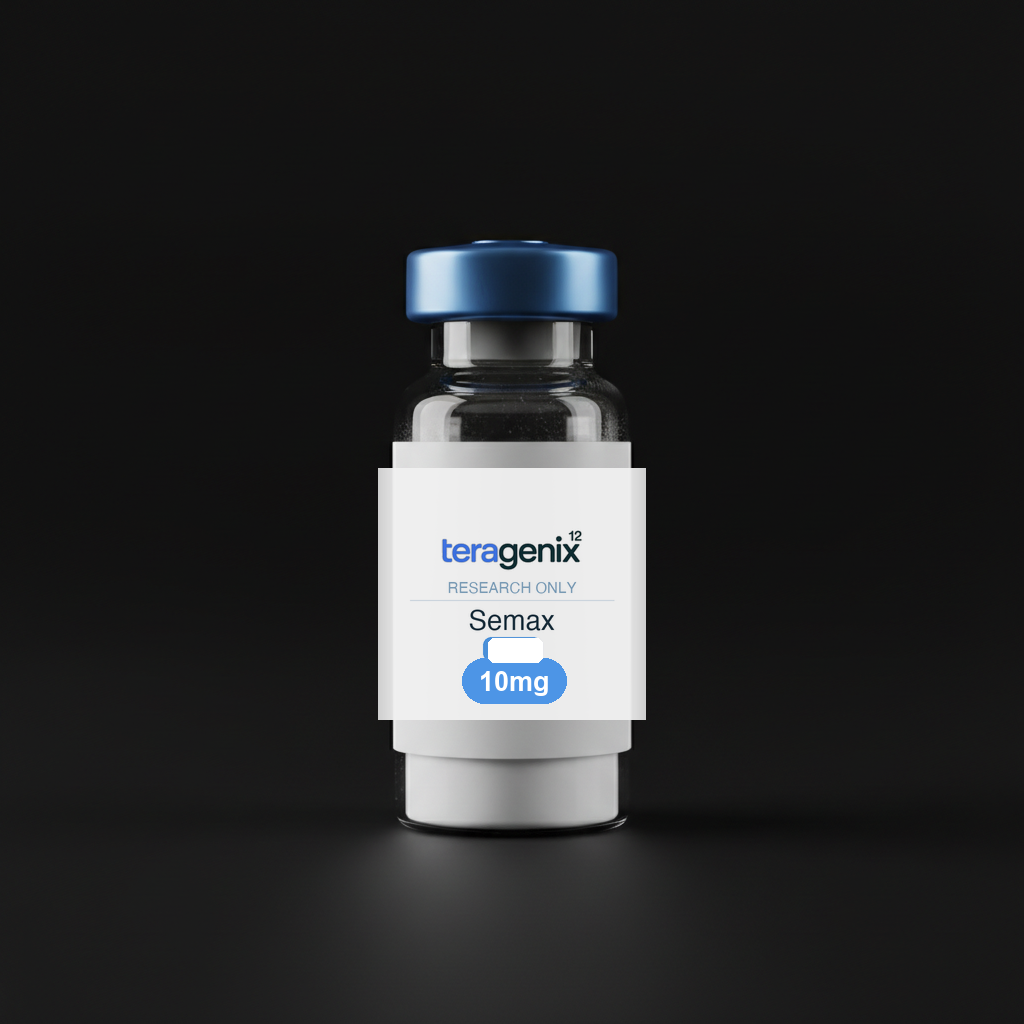
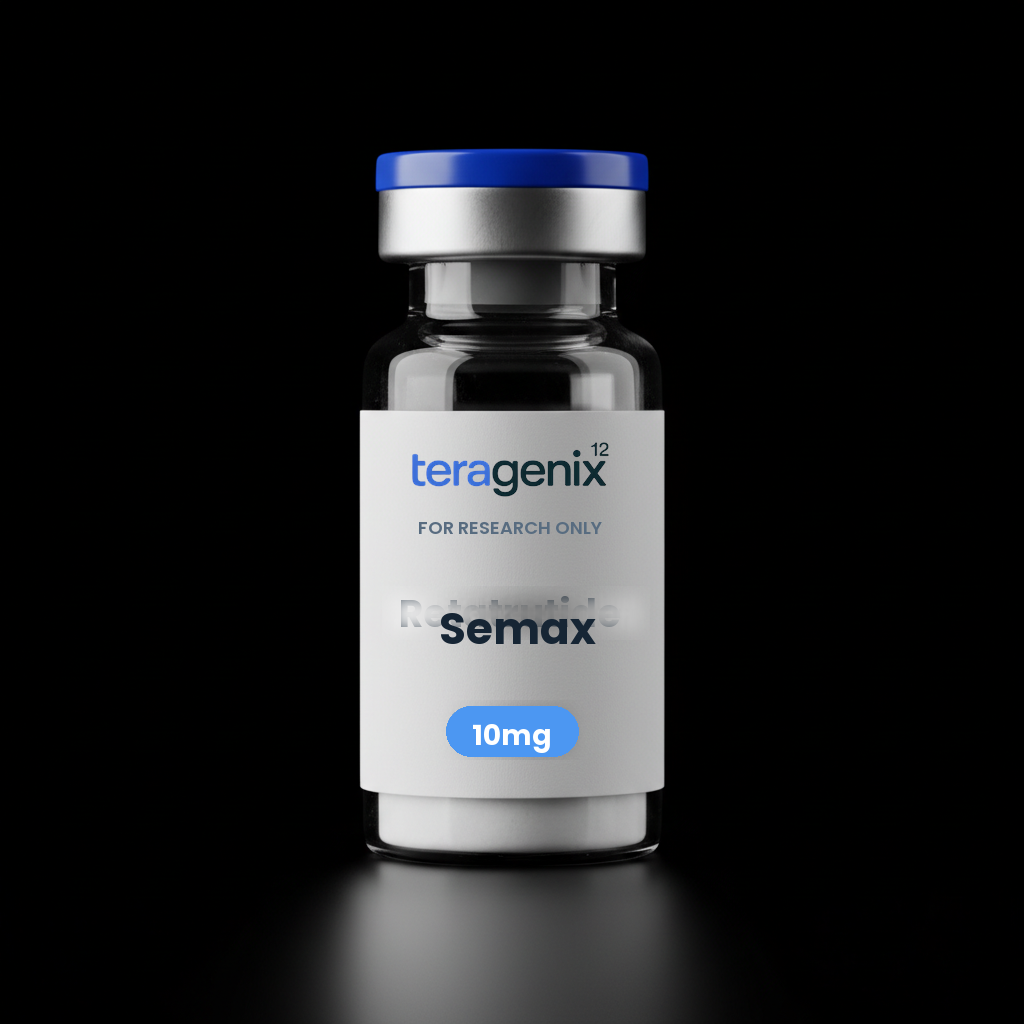
feat: add ordered batch vial renders from master reference

diff --git a/src/data/products.ts b/src/data/products.ts
@@ -201,7 +201,81 @@ export const products: Product[] = [
       "10× Sterile alcohol swabs",
       "Reconstitution guide",
     ],
-    relatedProductSlugs: ["glutathione", "retatrutide", "glow-70"],
+    relatedProductSlugs: ["glutathione", "nad-plus", "cjc-ipamorelin"],
+  },
+  {
+    slug: "cjc-ipamorelin",
+    name: "CJC / Ipamorelin Research Kit",
+    shortName: "CJC / Ipamorelin",
+    category: "Melanocortin",
+    heroCategory: "Melanocortin",
+    price: 129.99,
+    originalPrice: 159.99,
+    description:
+      "10mg CJC / Ipamorelin blend for recovery and longevity research, with prep essentials included.",
+    longDescription:
+      "This CJC / Ipamorelin research kit keeps the blend, prep essentials, and storage notes in one place for easier review. Each kit includes a 10mg lyophilized vial plus the supporting prep supplies needed for a clean research workflow.",
+    badge: "Trending",
+    badgeColor: "bg-violet-600",
+    image: "/images/vials/approved/cjc-ipamorelin.png",
+    specifications: {
+      purity: "99%+",
+      quantity: "10mg per vial",
+      form: "Lyophilized powder",
+      storage: "Store sealed and frozen. Refrigerate after reconstitution (2-8°C)",
+    },
+    documentation: {
+      sku: "TGX-CJCI-10",
+      batchCode: "CJC-ORDER-01",
+      coaStatus: "COA publishing with first production intake",
+      hplcStatus: "HPLC summary publishing with first production intake",
+      msStatus: "MS summary publishing with first production intake",
+      releaseWindow: "Current ordered batch",
+    },
+    kitIncludes: [
+      "1× CJC / Ipamorelin blend (10mg lyophilized)",
+      "1× Bacteriostatic water (30mL)",
+      "10× Insulin syringes (1mL)",
+      "10× Sterile alcohol swabs",
+      "Reconstitution guide",
+    ],
+    relatedProductSlugs: ["tesamorelin", "semax", "retatrutide"],
+  },
+  {
+    slug: "nad-plus",
+    name: "NAD+ Research Kit",
+    shortName: "NAD+",
+    category: "Antioxidant",
+    heroCategory: "Antioxidant",
+    price: 119.99,
+    originalPrice: 149.99,
+    description:
+      "1000mg NAD+ kit for energy and resilience research, with prep essentials included.",
+    longDescription:
+      "This NAD+ research kit is positioned for energy and resilience focused workflows, with the compound, prep essentials, and storage notes kept together for faster review. Each kit includes a 1000mg lyophilized vial plus the supporting supplies needed for a cleaner prep routine.",
+    image: "/images/vials/approved/nad-plus.png",
+    specifications: {
+      purity: "99%+",
+      quantity: "1000mg per vial",
+      form: "Lyophilized powder",
+      storage: "Store sealed and frozen. Refrigerate after reconstitution (2-8°C)",
+    },
+    documentation: {
+      sku: "TGX-NAD-1000",
+      batchCode: "NAD-ORDER-01",
+      coaStatus: "COA publishing with first production intake",
+      hplcStatus: "HPLC summary publishing with first production intake",
+      msStatus: "MS summary publishing with first production intake",
+      releaseWindow: "Current ordered batch",
+    },
+    kitIncludes: [
+      "1× NAD+ (1000mg lyophilized)",
+      "1× Bacteriostatic water (30mL)",
+      "10× Insulin syringes (1mL)",
+      "10× Sterile alcohol swabs",
+      "Reconstitution guide",
+    ],
+    relatedProductSlugs: ["glutathione", "bpc-157", "tesamorelin"],
   },
   {
     slug: "glutathione",
@@ -387,13 +461,7 @@ export const products: Product[] = [
   },
 ];
 
-const hiddenPublicProductSlugs = new Set([
-  "bpc-157",
-  "semax",
-  "selank",
-]);
-
-export const publicProducts = products.filter((p) => !hiddenPublicProductSlugs.has(p.slug));
+export const publicProducts = products;
 
 /** Products with badges — used on the homepage featured section */
 export const featuredProducts = publicProducts.filter((p) => p.badge);

diff --git a/scripts/generate_master_vials.py b/scripts/generate_master_vials.py
@@ -1,0 +1,135 @@
+#!/usr/bin/env python3
+from __future__ import annotations
+
+from pathlib import Path
+from PIL import Image, ImageDraw, ImageFont, ImageFilter
+
+ROOT = Path('/Users/Rex/.openclaw/workspace/teragenix')
+MASTER = ROOT / 'public/images/vials/reference/original-master-vial.png'
+TEMPLATE = ROOT / 'public/images/vials/retatrutide.png'
+OUT_DIR = ROOT / 'public/images/vials/generated-batch'
+OUT_DIR.mkdir(parents=True, exist_ok=True)
+
+FONT_BOLD = ROOT / 'assets/logos/Poppins-Bold.ttf'
+
+PRODUCTS = [
+    ('bpc-157', 'BPC-157', '10mg'),
+    ('semax', 'Semax', '10mg'),
+    ('selank', 'Selank', '10mg'),
+    ('cjc-ipamorelin', 'CJC / Ipamorelin', '10mg'),
+    ('nad-plus', 'NAD+', '1000mg'),
+]
+
+# Leave the existing logo + FOR RESEARCH ONLY alone. Only replace product-name area and pill area.
+NAME_RESET_BOX = (382, 586, 650, 640)
+NAME_BOX = (368, 584, 667, 644)
+PILL_RESET_BOX = (438, 700, 586, 760)
+PILL_BOX = (446, 706, 578, 756)
+
+NAVY = '#162534'
+BLUE = '#4C97F2'
+WHITE = '#FFFFFF'
+
+
+def load_font(path: Path, size: int) -> ImageFont.FreeTypeFont:
+    return ImageFont.truetype(str(path), size)
+
+
+def fit_single_line(draw: ImageDraw.ImageDraw, text: str, box: tuple[int, int, int, int], max_size: int, min_size: int) -> ImageFont.FreeTypeFont:
+    x1, y1, x2, y2 = box
+    max_w = x2 - x1
+    max_h = y2 - y1
+    for size in range(max_size, min_size - 1, -1):
+        font = load_font(FONT_BOLD, size)
+        bb = draw.textbbox((0, 0), text, font=font)
+        if (bb[2] - bb[0]) <= max_w and (bb[3] - bb[1]) <= max_h:
+            return font
+    return load_font(FONT_BOLD, min_size)
+
+
+def fit_two_line(draw: ImageDraw.ImageDraw, lines: list[str], box: tuple[int, int, int, int], max_size: int, min_size: int, spacing: int = 0) -> ImageFont.FreeTypeFont:
+    x1, y1, x2, y2 = box
+    max_w = x2 - x1
+    max_h = y2 - y1
+    text = '\n'.join(lines)
+    for size in range(max_size, min_size - 1, -1):
+        font = load_font(FONT_BOLD, size)
+        bb = draw.multiline_textbbox((0, 0), text, font=font, spacing=spacing, align='center')
+        if (bb[2] - bb[0]) <= max_w and (bb[3] - bb[1]) <= max_h:
+            return font
+    return load_font(FONT_BOLD, min_size)
+
+
+def draw_centered_text(draw: ImageDraw.ImageDraw, text: str, box: tuple[int, int, int, int], font: ImageFont.FreeTypeFont, fill: str) -> None:
+    x1, y1, x2, y2 = box
+    bb = draw.textbbox((0, 0), text, font=font)
+    x = x1 + ((x2 - x1) - (bb[2] - bb[0])) / 2
+    y = y1 + ((y2 - y1) - (bb[3] - bb[1])) / 2 - 1
+    draw.text((x, y), text, font=font, fill=fill)
+
+
+def draw_centered_multiline(draw: ImageDraw.ImageDraw, text: str, box: tuple[int, int, int, int], font: ImageFont.FreeTypeFont, fill: str, spacing: int = 0) -> None:
+    x1, y1, x2, y2 = box
+    bb = draw.multiline_textbbox((0, 0), text, font=font, spacing=spacing, align='center')
+    x = x1 + ((x2 - x1) - (bb[2] - bb[0])) / 2
+    y = y1 + ((y2 - y1) - (bb[3] - bb[1])) / 2 - 2
+    draw.multiline_text((x, y), text, font=font, fill=fill, spacing=spacing, align='center')
+
+
+def restore_region(base: Image.Image, master: Image.Image, box: tuple[int, int, int, int]) -> None:
+    patch = master.crop(box).convert('RGBA')
+    w = box[2] - box[0]
+    h = box[3] - box[1]
+    mask = Image.new('L', (w, h), 0)
+    md = ImageDraw.Draw(mask)
+    md.rectangle((10, 10, w - 10, h - 10), fill=255)
+    mask = mask.filter(ImageFilter.GaussianBlur(8))
+    region = base.crop(box).convert('RGBA')
+    blended = Image.composite(patch, region, mask)
+    base.paste(blended, box)
+
+
+def render_product_name(draw: ImageDraw.ImageDraw, name: str) -> None:
+    if name == 'CJC / Ipamorelin':
+        display = 'CJC/Ipamorelin'
+        box = (352, 588, 684, 640)
+        font = fit_single_line(draw, display, box, max_size=28, min_size=18)
+        draw_centered_text(draw, display, box, font, NAVY)
+    else:
+        font = fit_single_line(draw, name, NAME_BOX, max_size=44 if len(name) <= 12 else 36, min_size=24)
+        draw_centered_text(draw, name, NAME_BOX, font, NAVY)
+
+
+def render_dose_pill(draw: ImageDraw.ImageDraw, dose: str) -> None:
+    x1, y1, x2, y2 = PILL_BOX
+    extra = 0
+    if len(dose) >= 6:
+        extra = 24
+    pill = (x1 - extra // 2, y1, x2 + extra // 2, y2)
+    radius = (pill[3] - pill[1]) // 2
+    draw.rounded_rectangle(pill, radius=radius, fill=BLUE)
+    dose_font = fit_single_line(draw, dose, (pill[0] + 10, pill[1] + 4, pill[2] - 10, pill[3] - 4), max_size=28, min_size=18)
+    draw_centered_text(draw, dose, pill, dose_font, WHITE)
+
+
+def render(slug: str, name: str, dose: str) -> Path:
+    base = Image.open(TEMPLATE).convert('RGBA')
+    master = Image.open(MASTER).convert('RGBA')
+    restore_region(base, master, NAME_RESET_BOX)
+    restore_region(base, master, PILL_RESET_BOX)
+    draw = ImageDraw.Draw(base)
+    render_product_name(draw, name)
+    render_dose_pill(draw, dose)
+    out = OUT_DIR / f'{slug}.png'
+    base.save(out, format='PNG', optimize=True)
+    return out
+
+
+def main() -> None:
+    for slug, name, dose in PRODUCTS:
+        out = render(slug, name, dose)
+        print(out)
+
+
+if __name__ == '__main__':
+    main()

diff --git a/docs/vial-reference/MASTER_VIAL_WORKFLOW.md b/docs/vial-reference/MASTER_VIAL_WORKFLOW.md
@@ -1,0 +1,41 @@
+# Teragenix Master Vial Workflow
+
+## Canonical source image
+- Use `public/images/vials/reference/original-master-vial.png` as the master reference.
+- This is the approved original vial image Jam provided on 2026-04-17.
+
+## Hard rules
+- Start from this exact master vial image, not a different render family.
+- Keep the same realistic black-background product-shot style.
+- Keep the same vial shape, glass, silver neck, blue cap, lighting, crop, and reflections.
+- Do not add a neck label.
+- Do not swap fonts or approximate the logo.
+- Do not freehand a new label style.
+- Do not mix asset families on the public shop.
+- If the source art does not match this reference, do not publish it.
+
+## Label system to preserve
+- White centered front label.
+- Lowercase `teragenix` wordmark with superscript `12` exactly as in the master reference.
+- Same brand colors and typography treatment as the master reference.
+- Add product name and dose using the same label system, not a new one.
+
+## Public product-dose source of truth
+When Jam provides a supplier sheet, use that as the dosage source of truth for public bottle art.
+
+Known corrected doses from 2026-04-17:
+- BPC-157 = 10mg
+- Glutathione = 1500mg
+- Semax = 10mg
+- Selank = 10mg
+- Glow-70 = 70mg
+
+## Release rule
+Before pushing bottle art live:
+1. Confirm the image still matches the master reference visually.
+2. Confirm the logo is correct.
+3. Confirm the fonts are correct.
+4. Confirm the visible dose matches the source sheet.
+5. Check the actual production image, not just the filename/path.
+
+If any of those fail, do not publish.
